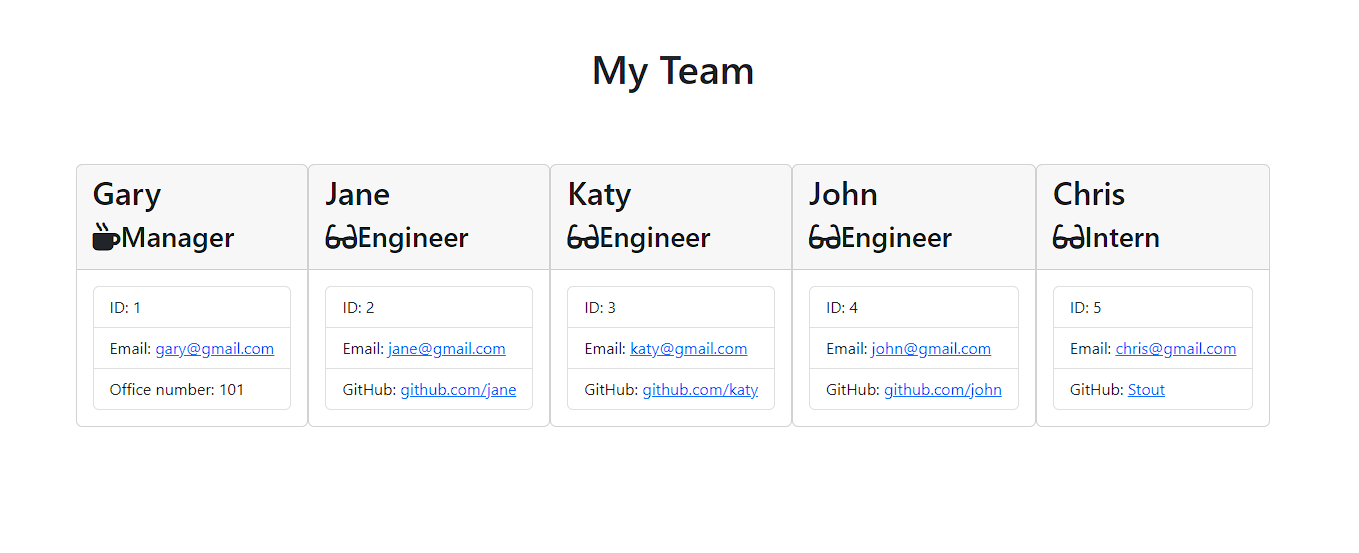
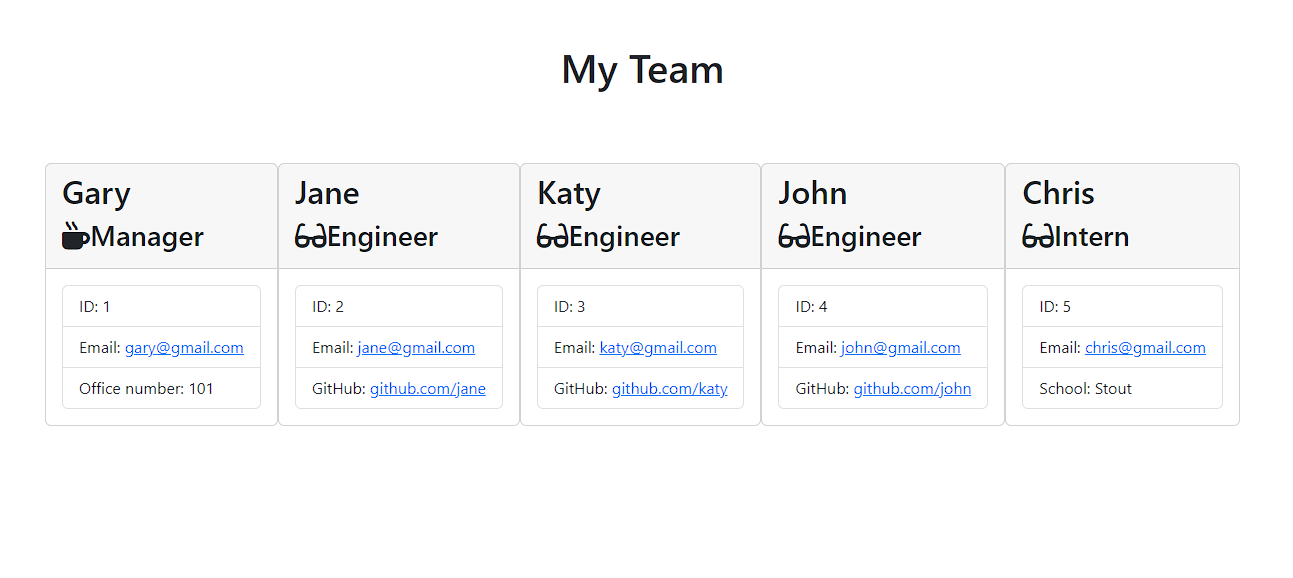
replace url screenshot with fixed school code

Changed region(s): [[0.0309, 0.2767, 0.959, 0.7378], [0.4331, 0.0922, 0.5568, 0.1537]]

diff --git a/dist/team.html b/dist/team.html
@@ -89,7 +89,7 @@
         <ul class="list-group">
             <li class="list-group-item">ID: 5</li>
             <li class="list-group-item">Email: <a href="mailto:chris@gmail.com">chris@gmail.com</a></li>
-            <li class="list-group-item">GitHub: <a href="https://github.com/Stout" target="_blank" rel="noopener noreferrer">Stout</a></li>
+            <li class="list-group-item">School: Stout</li>
         </ul>
       </div>
     </div>
